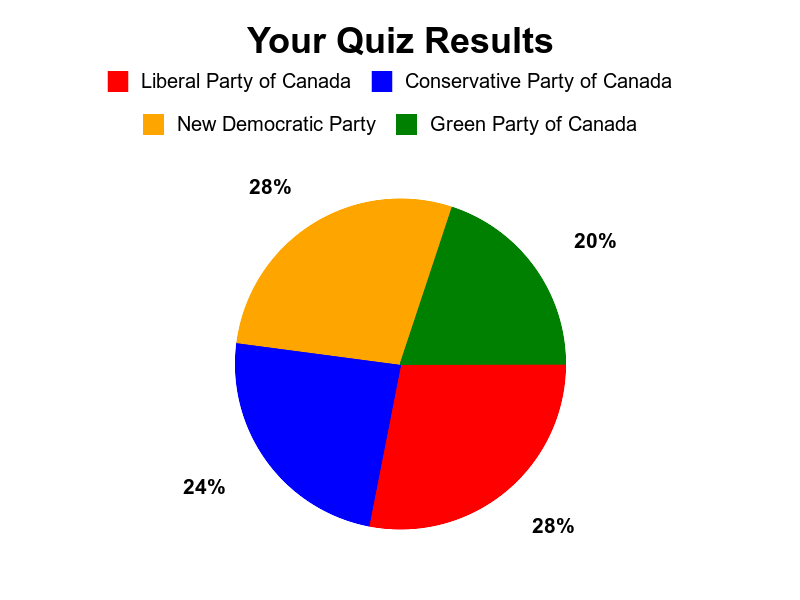
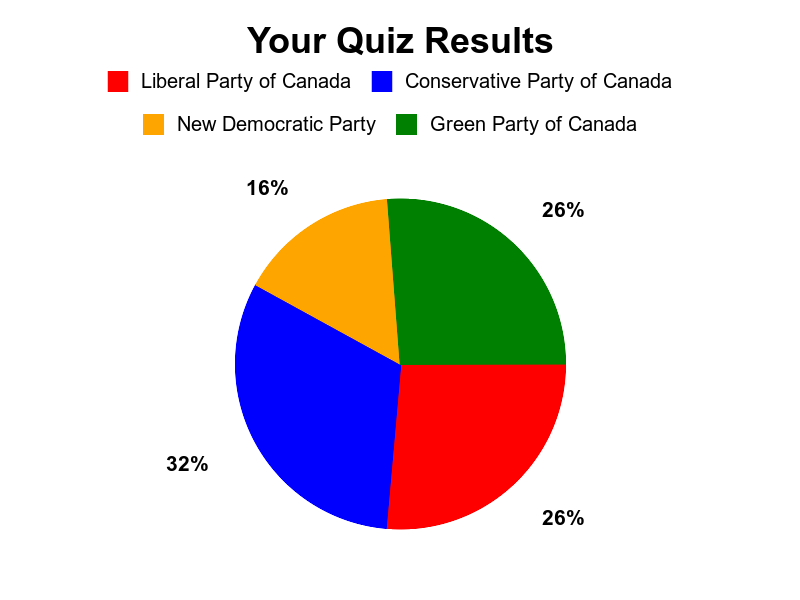
styling

diff --git a/app/assets/stylesheets/components/_buttons.scss b/app/assets/stylesheets/components/_buttons.scss
@@ -25,14 +25,15 @@
 }
 
 .btn-primary {
-  margin-left: auto;
-  margin-right: auto;
-  padding: 10px 75px;
+  margin-left: 10px;
+  // margin-right: auto;
+  padding: 6px 50px;
   background-color: #00C89F;
 
   &:hover {
     text-decoration: none;
     border: none;
+    background-color: #00AA85;
   }
 
 }

diff --git a/app/controllers/pages_controller.rb b/app/controllers/pages_controller.rb
@@ -25,11 +25,18 @@ class PagesController < ApplicationController
 
     Party.all.each do |party|
       score = 0
-      party.party_opinions.each do |party_opinion|
-        party_stance = party_opinion.stance
-        user_stance = current_user.user_opinions.find_by(issue: party_opinion.issue).stance
+
+      current_user.user_opinions.where(is_interested_in: true).each do |user_opinion|
+        user_stance = user_opinion.stance
+        party_stance = party.party_opinions.find_by(issue: user_opinion.issue).stance
         score += 1 if party_stance == user_stance
       end
+
+      # party.party_opinions.each do |party_opinion|
+      #   party_stance = party_opinion.stance
+      #   user_stance = current_user.user_opinions.find_by(issue: party_opinion.issue).stance
+      #   score += 1 if party_stance == user_stance
+      # end
 
       Score.create(
         score: score,
@@ -57,7 +64,7 @@ class PagesController < ApplicationController
   end
 
   def results
-    @user_opinions = UserOpinion.where(user: current_user)
+    @user_opinions = UserOpinion.where(user: current_user).where(is_interested_in: true)
     @scores = Score.where(user: current_user)
 
     # Find out how many issues the Liberal have answered the same as the user
